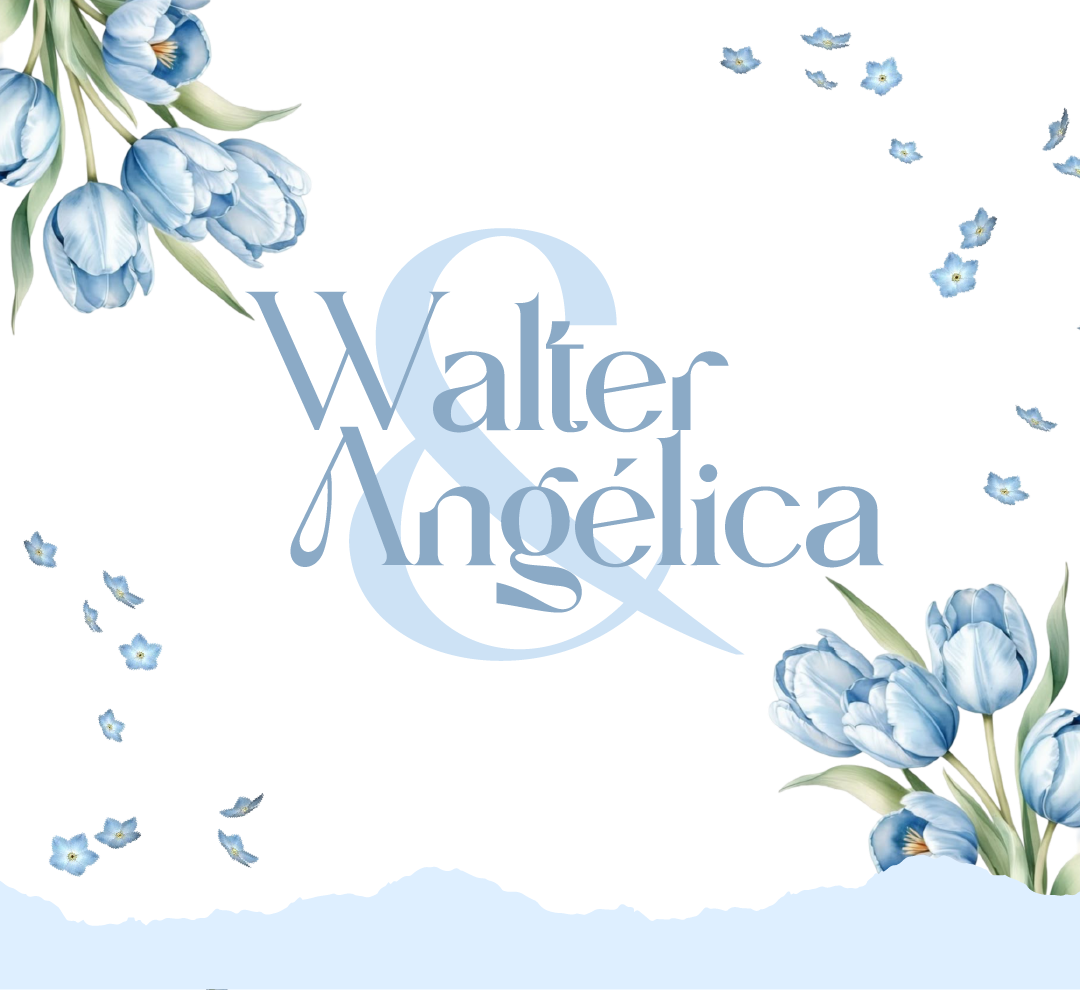
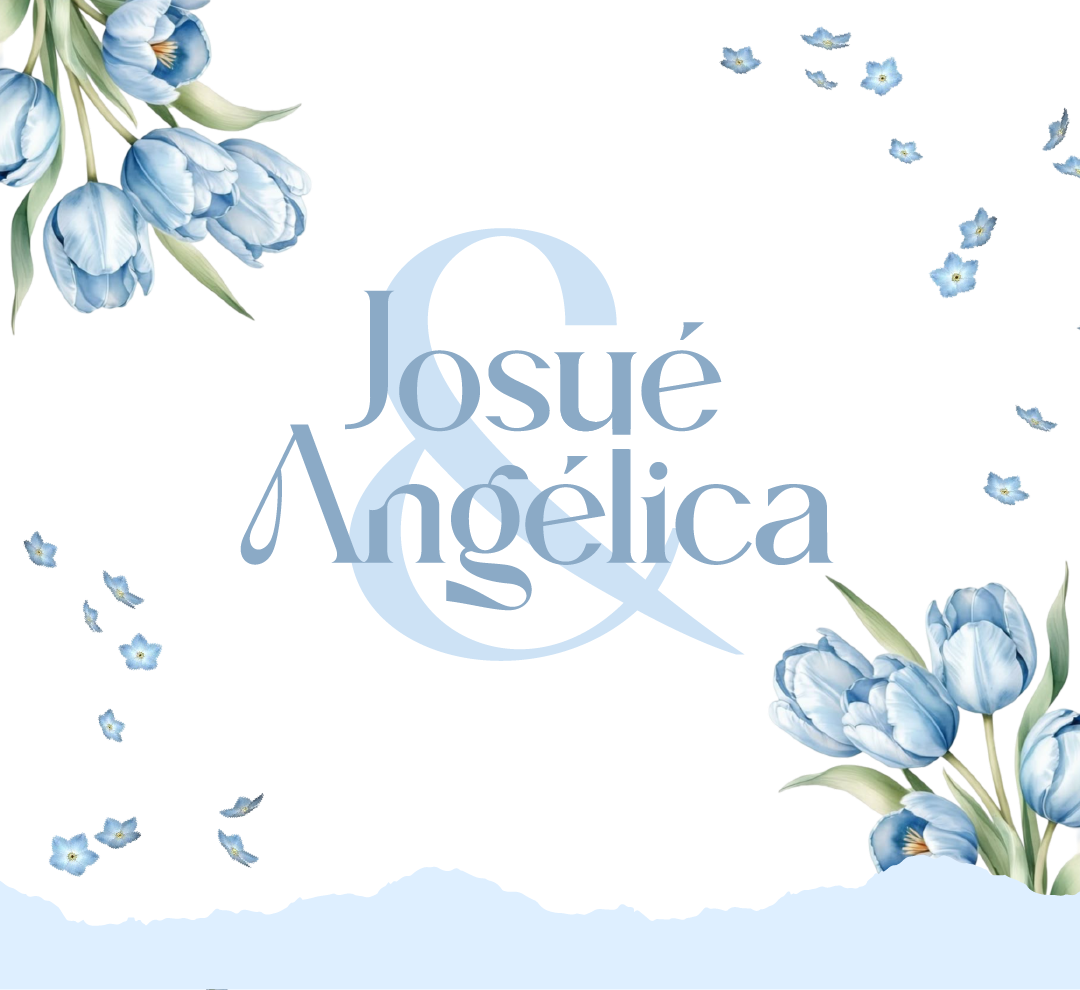
Añadirakjskjasddsa

Changed region(s): [[0.2139, 0.2727, 0.825, 0.6364], [0.3972, 0.2727, 0.4278, 0.303]]

diff --git a/style.css b/style.css
@@ -195,7 +195,7 @@ body {
 ========================================= */
 
 .btn1 {
-    top: 92%;
+    top: 90%;
     width: 65%;
 }
 
